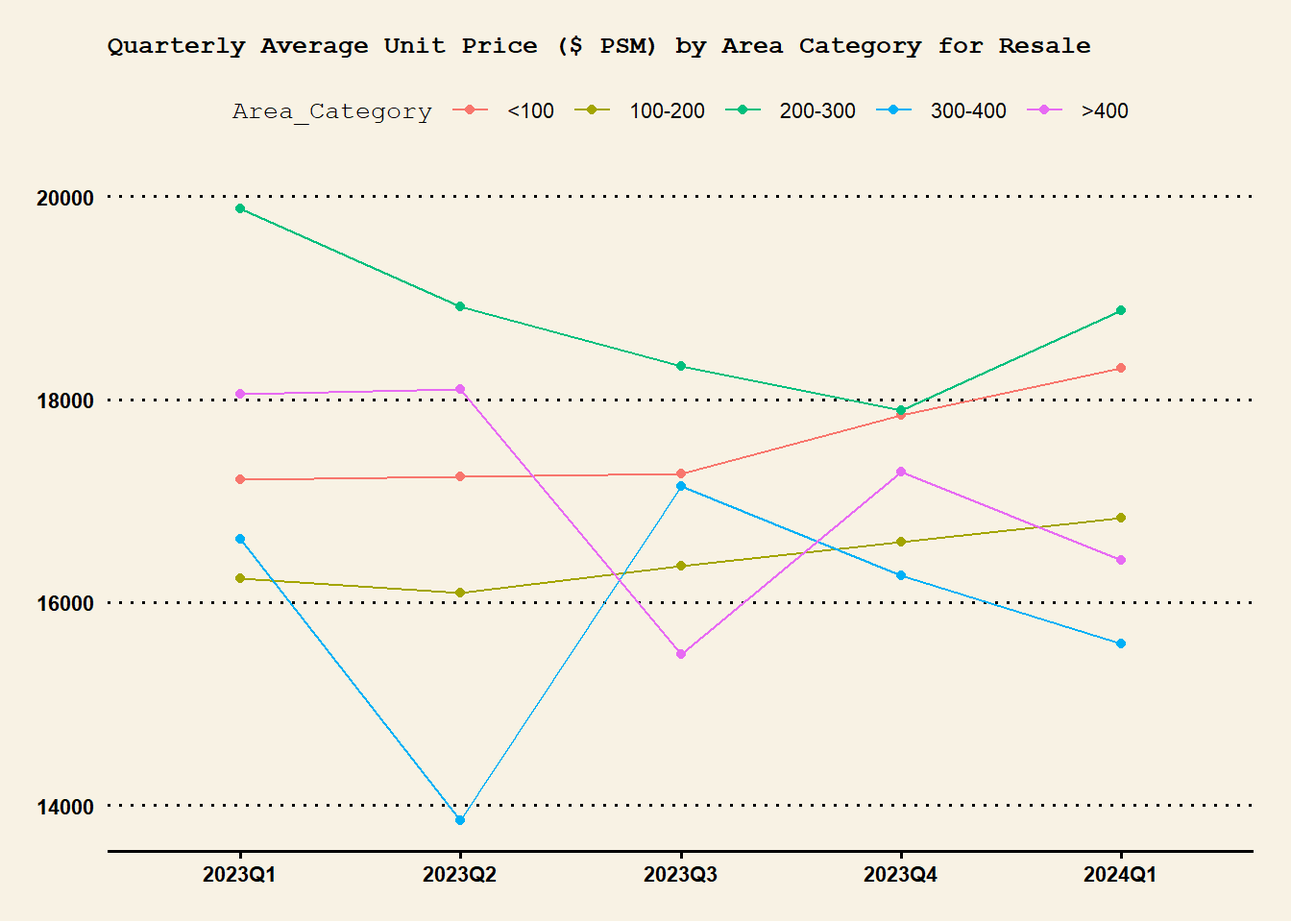
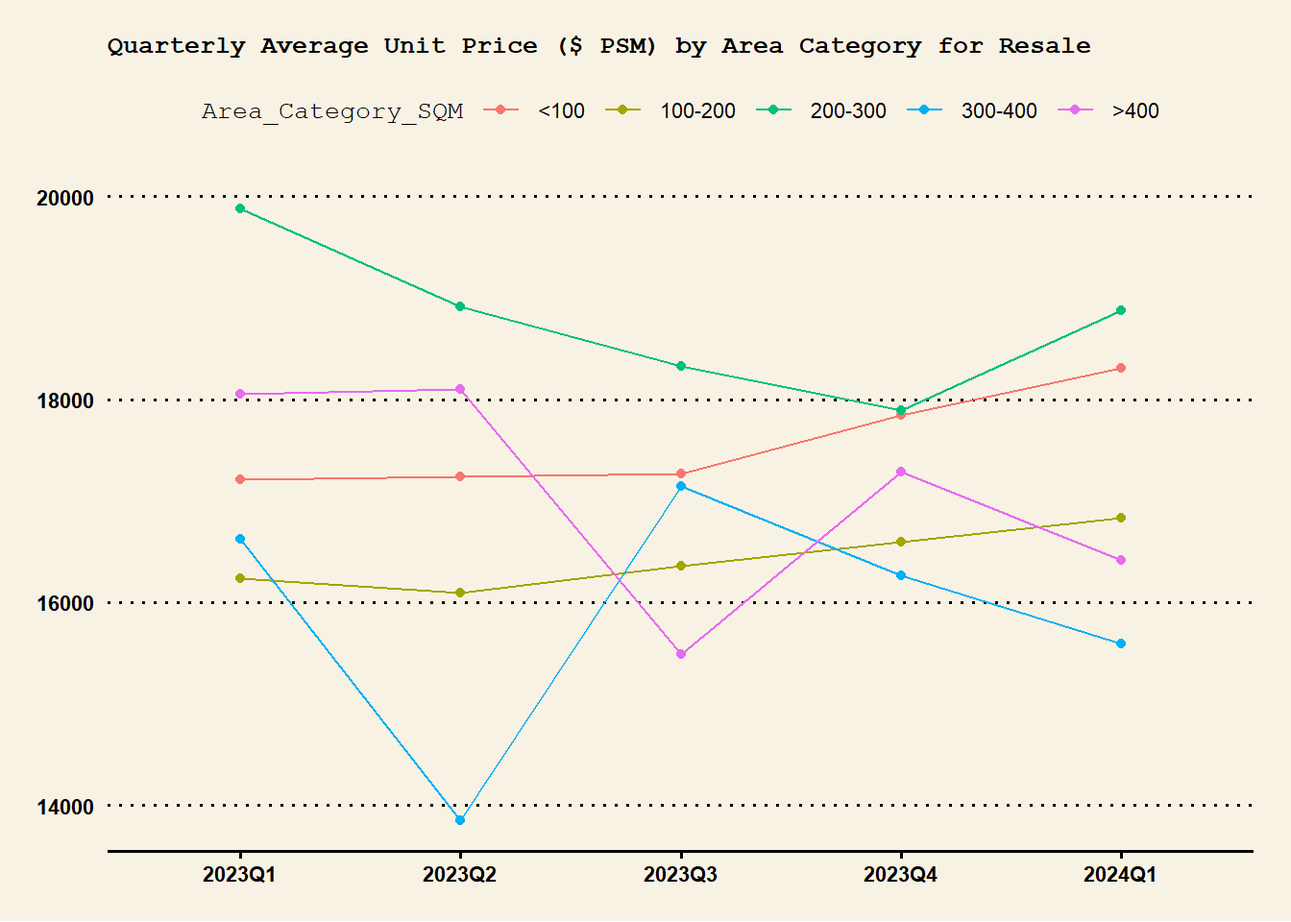
Commit after editing Take Home Ex02

Changed region(s): [[0.1562, 0.0938, 0.9062, 0.125]]

diff --git a/_site/Take-home_Ex/Take-home_Ex02/Take-home_Ex02.html b/_site/Take-home_Ex/Take-home_Ex02/Take-home_Ex02.html
@@ -7,7 +7,7 @@
 <meta name="viewport" content="width=device-width, initial-scale=1.0, user-scalable=yes">
 
 <meta name="author" content="Thet Myat Noe">
-<meta name="dcterms.date" content="2024-04-16">
+<meta name="dcterms.date" content="2024-05-02">
 
 <title>ISSS608-VAA - Take-home Exercise 2</title>
 <style>
@@ -228,7 +228,7 @@ pre > code.sourceCode > span > a:first-child::before { text-decoration: underlin
   <ul class="collapse">
   <li><a href="#combining-all-quarter-data-into-one-file" id="toc-combining-all-quarter-data-into-one-file" class="nav-link" data-scroll-target="#combining-all-quarter-data-into-one-file">2.3.1 Combining all quarter data into one file</a></li>
   <li><a href="#checking-for-duplicates" id="toc-checking-for-duplicates" class="nav-link" data-scroll-target="#checking-for-duplicates">2.3.2 Checking for duplicates</a></li>
-  <li><a href="#create-quarter-column" id="toc-create-quarter-column" class="nav-link" data-scroll-target="#create-quarter-column">2.3.4 Create Quarter Column</a></li>
+  <li><a href="#create-quarter-and-month-column" id="toc-create-quarter-and-month-column" class="nav-link" data-scroll-target="#create-quarter-and-month-column">2.3.4 Create Quarter and Month Column</a></li>
   <li><a href="#create-area-category-column" id="toc-create-area-category-column" class="nav-link" data-scroll-target="#create-area-category-column">2.3.4 Create Area Category Column</a></li>
   </ul></li>
   </ul></li>
@@ -242,6 +242,7 @@ pre > code.sourceCode > span > a:first-child::before { text-decoration: underlin
   <li><a href="#makeover-sketch" id="toc-makeover-sketch" class="nav-link" data-scroll-target="#makeover-sketch">4.1 Makeover Sketch</a></li>
   <li><a href="#makeover-visualisation" id="toc-makeover-visualisation" class="nav-link" data-scroll-target="#makeover-visualisation">4.2 Makeover Visualisation</a></li>
   </ul></li>
+  <li><a href="#conclusion" id="toc-conclusion" class="nav-link" data-scroll-target="#conclusion">5. Conclusion</a></li>
   </ul>
 </nav>
     </div>
@@ -268,7 +269,7 @@ pre > code.sourceCode > span > a:first-child::before { text-decoration: underlin
     <div>
     <div class="quarto-title-meta-heading">Published</div>
     <div class="quarto-title-meta-contents">
-      <p class="date">April 16, 2024</p>
+      <p class="date">May 2, 2024</p>
     </div>
   </div>
   
@@ -286,6 +287,7 @@ pre > code.sourceCode > span > a:first-child::before { text-decoration: underlin
 </header>
 
 
+<p><img src="pasir-ris-8.webp" class="img-fluid"> Photo: https://www.propertyguru.com.sg/</p>
 <section id="overview" class="level1">
 <h1>1. Overview</h1>
 <section id="setting-the-scene" class="level2">
@@ -324,6 +326,10 @@ pre > code.sourceCode > span > a:first-child::before { text-decoration: underlin
 <tr class="even">
 <td><a href="https://cran.r-project.org/web/packages/hrbrthemes/index.html">hrbrthemes</a></td>
 <td>A compilation of extra ‘ggplot2’ themes, scales and utilities, including a spell check function for plot label fields and an overall emphasis on typography.</td>
+</tr>
+<tr class="odd">
+<td><a href="https://r-graph-gallery.com/38-rcolorbrewers-palettes.html">rcolorbrewer</a></td>
+<td>The RColorBrewer package offers several color palette for R.&nbsp;</td>
 </tr>
 </tbody>
 </table>
@@ -446,77 +452,22 @@ $ Planning_Area               &lt;chr&gt; "Bukit Merah", "Bedok", "Yishun", "Yis
 </div>
 </section>
 </section>
-<section id="create-quarter-column" class="level3">
-<h3 class="anchored" data-anchor-id="create-quarter-column">2.3.4 Create Quarter Column</h3>
-<p>Use <code>as.Date()</code> function to put Sale_Date column into date object, specify format to ensure <code>as.Date()</code> recognize the content accurately as date. Use <code>year()</code> and <code>quarter()</code> functions from <strong>lubridate</strong> package to extract year &amp; quarter and use <code>paste()</code> to concatenate the strings.</p>
+<section id="create-quarter-and-month-column" class="level3">
+<h3 class="anchored" data-anchor-id="create-quarter-and-month-column">2.3.4 Create Quarter and Month Column</h3>
+<p>Use <code>as.Date()</code> function to put Sale_Date column into date object, specify format to ensure <code>as.Date()</code> recognize the content accurately as date. Use <code>year()</code>, <code>quarter()</code> and <code>month()</code> functions from <strong>lubridate</strong> package to extract year, quarter &amp; month and use <code>paste()</code> to concatenate the strings.</p>
 <div class="tabset-margin-container"></div><div class="panel-tabset">
 <ul class="nav nav-tabs" role="tablist"><li class="nav-item" role="presentation"><a class="nav-link active" id="tabset-2-1-tab" data-bs-toggle="tab" data-bs-target="#tabset-2-1" role="tab" aria-controls="tabset-2-1" aria-selected="true">Code</a></li><li class="nav-item" role="presentation"><a class="nav-link" id="tabset-2-2-tab" data-bs-toggle="tab" data-bs-target="#tabset-2-2" role="tab" aria-controls="tabset-2-2" aria-selected="false">Data Glimpse</a></li></ul>
 <div class="tab-content">
 <div id="tabset-2-1" class="tab-pane active" role="tabpanel" aria-labelledby="tabset-2-1-tab">
 <div class="cell">
 <div class="sourceCode cell-code" id="cb11"><pre class="sourceCode r code-with-copy"><code class="sourceCode r"><span id="cb11-1"><a href="#cb11-1" aria-hidden="true" tabindex="-1"></a>realis_merge<span class="sc">$</span>Sale_Date <span class="ot">&lt;-</span> <span class="fu">as.Date</span>(realis_merge<span class="sc">$</span>Sale_Date, <span class="at">format =</span> <span class="st">"%d %b %Y"</span>)</span>
-<span id="cb11-2"><a href="#cb11-2" aria-hidden="true" tabindex="-1"></a>realis_merge<span class="sc">$</span>Quarter <span class="ot">&lt;-</span> <span class="fu">paste</span>(<span class="fu">year</span>(realis_merge<span class="sc">$</span>Sale_Date), <span class="st">"Q"</span>, <span class="fu">quarter</span>(realis_merge<span class="sc">$</span>Sale_Date), <span class="at">sep=</span><span class="st">""</span>)</span></code><button title="Copy to Clipboard" class="code-copy-button"><i class="bi"></i></button></pre></div>
+<span id="cb11-2"><a href="#cb11-2" aria-hidden="true" tabindex="-1"></a>realis_merge<span class="sc">$</span>Quarter <span class="ot">&lt;-</span> <span class="fu">paste</span>(<span class="fu">year</span>(realis_merge<span class="sc">$</span>Sale_Date), <span class="st">"Q"</span>, <span class="fu">quarter</span>(realis_merge<span class="sc">$</span>Sale_Date), <span class="at">sep=</span><span class="st">""</span>)</span>
+<span id="cb11-3"><a href="#cb11-3" aria-hidden="true" tabindex="-1"></a>realis_merge<span class="sc">$</span>Month <span class="ot">&lt;-</span> <span class="fu">month</span>(realis_merge<span class="sc">$</span>Sale_Date, <span class="at">label =</span> <span class="cn">TRUE</span>)</span></code><button title="Copy to Clipboard" class="code-copy-button"><i class="bi"></i></button></pre></div>
 </div>
 </div>
 <div id="tabset-2-2" class="tab-pane" role="tabpanel" aria-labelledby="tabset-2-2-tab">
 <div class="cell">
 <div class="sourceCode cell-code" id="cb12"><pre class="sourceCode r code-with-copy"><code class="sourceCode r"><span id="cb12-1"><a href="#cb12-1" aria-hidden="true" tabindex="-1"></a><span class="fu">glimpse</span>(realis_merge)</span></code><button title="Copy to Clipboard" class="code-copy-button"><i class="bi"></i></button></pre></div>
-<div class="cell-output cell-output-stdout">
-<pre><code>Rows: 26,806
-Columns: 22
-$ Project_Name                &lt;chr&gt; "THE REEF AT KING'S DOCK", "URBAN TREASURE…
-$ `Transacted_Price_($)`      &lt;dbl&gt; 2317000, 1823500, 1421112, 1258112, 128000…
-$ `Area_(SQFT)`               &lt;dbl&gt; 882.65, 882.65, 1076.40, 1033.34, 871.88, …
-$ `Unit_Price_($_PSF)`        &lt;dbl&gt; 2625, 2066, 1320, 1218, 1468, 1767, 1095, …
-$ Sale_Date                   &lt;date&gt; 2023-01-01, 2023-01-02, 2023-01-02, 2023-…
-$ Address                     &lt;chr&gt; "12 HARBOURFRONT AVENUE #05-32", "205 JALA…
-$ Type_of_Sale                &lt;chr&gt; "New Sale", "New Sale", "New Sale", "New S…
-$ Type_of_Area                &lt;chr&gt; "Strata", "Strata", "Strata", "Strata", "S…
-$ `Area_(SQM)`                &lt;dbl&gt; 82.0, 82.0, 100.0, 96.0, 81.0, 308.7, 420.…
-$ `Unit_Price_($_PSM)`        &lt;dbl&gt; 28256, 22238, 14211, 13105, 15802, 19015, …
-$ `Nett_Price($)`             &lt;chr&gt; "-", "-", "-", "-", "-", "-", "-", "-", "-…
-$ Property_Type               &lt;chr&gt; "Condominium", "Condominium", "Executive C…
-$ Number_of_Units             &lt;dbl&gt; 1, 1, 1, 1, 1, 1, 1, 1, 1, 1, 1, 1, 1, 1, …
-$ Tenure                      &lt;chr&gt; "99 yrs from 12/01/2021", "Freehold", "99 …
-$ Completion_Date             &lt;chr&gt; "Uncompleted", "Uncompleted", "Uncompleted…
-$ Purchaser_Address_Indicator &lt;chr&gt; "HDB", "Private", "HDB", "HDB", "HDB", "Pr…
-$ Postal_Code                 &lt;chr&gt; "097996", "419535", "269343", "269294", "7…
-$ Postal_District             &lt;chr&gt; "04", "14", "27", "27", "28", "19", "10", …
-$ Postal_Sector               &lt;chr&gt; "09", "41", "26", "26", "79", "54", "27", …
-$ Planning_Region             &lt;chr&gt; "Central Region", "East Region", "North Re…
-$ Planning_Area               &lt;chr&gt; "Bukit Merah", "Bedok", "Yishun", "Yishun"…
-$ Quarter                     &lt;chr&gt; "2023Q1", "2023Q1", "2023Q1", "2023Q1", "2…</code></pre>
-</div>
-</div>
-</div>
-</div>
-</div>
-</section>
-<section id="create-area-category-column" class="level3">
-<h3 class="anchored" data-anchor-id="create-area-category-column">2.3.4 Create Area Category Column</h3>
-<div class="tabset-margin-container"></div><div class="panel-tabset">
-<ul class="nav nav-tabs" role="tablist"><li class="nav-item" role="presentation"><a class="nav-link active" id="tabset-3-1-tab" data-bs-toggle="tab" data-bs-target="#tabset-3-1" role="tab" aria-controls="tabset-3-1" aria-selected="true">Code</a></li><li class="nav-item" role="presentation"><a class="nav-link" id="tabset-3-2-tab" data-bs-toggle="tab" data-bs-target="#tabset-3-2" role="tab" aria-controls="tabset-3-2" aria-selected="false">Data Glimpse</a></li></ul>
-<div class="tab-content">
-<div id="tabset-3-1" class="tab-pane active" role="tabpanel" aria-labelledby="tabset-3-1-tab">
-<div class="cell">
-<div class="sourceCode cell-code" id="cb14"><pre class="sourceCode r code-with-copy"><code class="sourceCode r"><span id="cb14-1"><a href="#cb14-1" aria-hidden="true" tabindex="-1"></a>realis_merge <span class="ot">&lt;-</span> realis_merge <span class="sc">%&gt;%</span></span>
-<span id="cb14-2"><a href="#cb14-2" aria-hidden="true" tabindex="-1"></a>  <span class="fu">mutate</span>(</span>
-<span id="cb14-3"><a href="#cb14-3" aria-hidden="true" tabindex="-1"></a>    <span class="st">`</span><span class="at">Area_(SQM)</span><span class="st">`</span> <span class="ot">=</span> <span class="fu">ifelse</span>(<span class="fu">is.na</span>(<span class="st">`</span><span class="at">Area_(SQM)</span><span class="st">`</span>), <span class="dv">0</span>, <span class="st">`</span><span class="at">Area_(SQM)</span><span class="st">`</span>)  <span class="co"># Dealing with NA values</span></span>
-<span id="cb14-4"><a href="#cb14-4" aria-hidden="true" tabindex="-1"></a>  )</span>
-<span id="cb14-5"><a href="#cb14-5" aria-hidden="true" tabindex="-1"></a>realis_merge <span class="ot">&lt;-</span> realis_merge <span class="sc">%&gt;%</span></span>
-<span id="cb14-6"><a href="#cb14-6" aria-hidden="true" tabindex="-1"></a>  <span class="fu">mutate</span>(</span>
-<span id="cb14-7"><a href="#cb14-7" aria-hidden="true" tabindex="-1"></a>    <span class="at">Area_Category =</span> <span class="fu">cut</span>(</span>
-<span id="cb14-8"><a href="#cb14-8" aria-hidden="true" tabindex="-1"></a>      <span class="st">`</span><span class="at">Area_(SQM)</span><span class="st">`</span>,</span>
-<span id="cb14-9"><a href="#cb14-9" aria-hidden="true" tabindex="-1"></a>      <span class="at">breaks =</span> <span class="fu">c</span>(<span class="dv">0</span>, <span class="dv">100</span>, <span class="dv">200</span>, <span class="dv">300</span>, <span class="dv">400</span>, <span class="cn">Inf</span>),  </span>
-<span id="cb14-10"><a href="#cb14-10" aria-hidden="true" tabindex="-1"></a>      <span class="at">labels =</span> <span class="fu">c</span>(<span class="st">"&lt;100"</span>, <span class="st">"100-200"</span>, <span class="st">"200-300"</span>, <span class="st">"300-400"</span>, <span class="st">"&gt;400"</span>),</span>
-<span id="cb14-11"><a href="#cb14-11" aria-hidden="true" tabindex="-1"></a>      <span class="at">include.lowest =</span> <span class="cn">TRUE</span>  </span>
-<span id="cb14-12"><a href="#cb14-12" aria-hidden="true" tabindex="-1"></a>    )</span>
-<span id="cb14-13"><a href="#cb14-13" aria-hidden="true" tabindex="-1"></a>  )</span></code><button title="Copy to Clipboard" class="code-copy-button"><i class="bi"></i></button></pre></div>
-</div>
-</div>
-<div id="tabset-3-2" class="tab-pane" role="tabpanel" aria-labelledby="tabset-3-2-tab">
-<div class="cell">
-<div class="sourceCode cell-code" id="cb15"><pre class="sourceCode r code-with-copy"><code class="sourceCode r"><span id="cb15-1"><a href="#cb15-1" aria-hidden="true" tabindex="-1"></a><span class="fu">glimpse</span>(realis_merge)</span></code><button title="Copy to Clipboard" class="code-copy-button"><i class="bi"></i></button></pre></div>
 <div class="cell-output cell-output-stdout">
 <pre><code>Rows: 26,806
 Columns: 23
@@ -542,7 +493,66 @@ $ Postal_Sector               &lt;chr&gt; "09", "41", "26", "26", "79", "54", "2
 $ Planning_Region             &lt;chr&gt; "Central Region", "East Region", "North Re…
 $ Planning_Area               &lt;chr&gt; "Bukit Merah", "Bedok", "Yishun", "Yishun"…
 $ Quarter                     &lt;chr&gt; "2023Q1", "2023Q1", "2023Q1", "2023Q1", "2…
-$ Area_Category               &lt;fct&gt; &lt;100, &lt;100, &lt;100, &lt;100, &lt;100, 300-400, &gt;40…</code></pre>
+$ Month                       &lt;ord&gt; Jan, Jan, Jan, Jan, Jan, Jan, Jan, Jan, Ja…</code></pre>
+</div>
+</div>
+</div>
+</div>
+</div>
+</section>
+<section id="create-area-category-column" class="level3">
+<h3 class="anchored" data-anchor-id="create-area-category-column">2.3.4 Create Area Category Column</h3>
+<p>Use <code>mutate()</code>, <code>ifelse()</code> and <code>is.na()</code> to replace NA (missing values) with 0. Next, use <code>mutate()</code> and <code>cut()</code> functions to create area Catergory column (“&lt;100”, “100-200”, “200-300”, “300-400”, “&gt;400”).</p>
+<div class="tabset-margin-container"></div><div class="panel-tabset">
+<ul class="nav nav-tabs" role="tablist"><li class="nav-item" role="presentation"><a class="nav-link active" id="tabset-3-1-tab" data-bs-toggle="tab" data-bs-target="#tabset-3-1" role="tab" aria-controls="tabset-3-1" aria-selected="true">Code</a></li><li class="nav-item" role="presentation"><a class="nav-link" id="tabset-3-2-tab" data-bs-toggle="tab" data-bs-target="#tabset-3-2" role="tab" aria-controls="tabset-3-2" aria-selected="false">Data Glimpse</a></li></ul>
+<div class="tab-content">
+<div id="tabset-3-1" class="tab-pane active" role="tabpanel" aria-labelledby="tabset-3-1-tab">
+<div class="cell">
+<div class="sourceCode cell-code" id="cb14"><pre class="sourceCode r code-with-copy"><code class="sourceCode r"><span id="cb14-1"><a href="#cb14-1" aria-hidden="true" tabindex="-1"></a>realis_merge <span class="ot">&lt;-</span> realis_merge <span class="sc">%&gt;%</span></span>
+<span id="cb14-2"><a href="#cb14-2" aria-hidden="true" tabindex="-1"></a>  <span class="fu">mutate</span>(</span>
+<span id="cb14-3"><a href="#cb14-3" aria-hidden="true" tabindex="-1"></a>    <span class="st">`</span><span class="at">Area_(SQM)</span><span class="st">`</span> <span class="ot">=</span> <span class="fu">ifelse</span>(<span class="fu">is.na</span>(<span class="st">`</span><span class="at">Area_(SQM)</span><span class="st">`</span>), <span class="dv">0</span>, <span class="st">`</span><span class="at">Area_(SQM)</span><span class="st">`</span>)  <span class="co"># Dealing with NA values</span></span>
+<span id="cb14-4"><a href="#cb14-4" aria-hidden="true" tabindex="-1"></a>  )</span>
+<span id="cb14-5"><a href="#cb14-5" aria-hidden="true" tabindex="-1"></a>realis_merge <span class="ot">&lt;-</span> realis_merge <span class="sc">%&gt;%</span></span>
+<span id="cb14-6"><a href="#cb14-6" aria-hidden="true" tabindex="-1"></a>  <span class="fu">mutate</span>(</span>
+<span id="cb14-7"><a href="#cb14-7" aria-hidden="true" tabindex="-1"></a>    <span class="at">Area_Category_SQM =</span> <span class="fu">cut</span>(</span>
+<span id="cb14-8"><a href="#cb14-8" aria-hidden="true" tabindex="-1"></a>      <span class="st">`</span><span class="at">Area_(SQM)</span><span class="st">`</span>,</span>
+<span id="cb14-9"><a href="#cb14-9" aria-hidden="true" tabindex="-1"></a>      <span class="at">breaks =</span> <span class="fu">c</span>(<span class="dv">0</span>, <span class="dv">100</span>, <span class="dv">200</span>, <span class="dv">300</span>, <span class="dv">400</span>, <span class="cn">Inf</span>),  </span>
+<span id="cb14-10"><a href="#cb14-10" aria-hidden="true" tabindex="-1"></a>      <span class="at">labels =</span> <span class="fu">c</span>(<span class="st">"&lt;100"</span>, <span class="st">"100-200"</span>, <span class="st">"200-300"</span>, <span class="st">"300-400"</span>, <span class="st">"&gt;400"</span>),</span>
+<span id="cb14-11"><a href="#cb14-11" aria-hidden="true" tabindex="-1"></a>      <span class="at">include.lowest =</span> <span class="cn">TRUE</span>  </span>
+<span id="cb14-12"><a href="#cb14-12" aria-hidden="true" tabindex="-1"></a>    )</span>
+<span id="cb14-13"><a href="#cb14-13" aria-hidden="true" tabindex="-1"></a>  )</span></code><button title="Copy to Clipboard" class="code-copy-button"><i class="bi"></i></button></pre></div>
+</div>
+</div>
+<div id="tabset-3-2" class="tab-pane" role="tabpanel" aria-labelledby="tabset-3-2-tab">
+<div class="cell">
+<div class="sourceCode cell-code" id="cb15"><pre class="sourceCode r code-with-copy"><code class="sourceCode r"><span id="cb15-1"><a href="#cb15-1" aria-hidden="true" tabindex="-1"></a><span class="fu">glimpse</span>(realis_merge)</span></code><button title="Copy to Clipboard" class="code-copy-button"><i class="bi"></i></button></pre></div>
+<div class="cell-output cell-output-stdout">
+<pre><code>Rows: 26,806
+Columns: 24
+$ Project_Name                &lt;chr&gt; "THE REEF AT KING'S DOCK", "URBAN TREASURE…
+$ `Transacted_Price_($)`      &lt;dbl&gt; 2317000, 1823500, 1421112, 1258112, 128000…
+$ `Area_(SQFT)`               &lt;dbl&gt; 882.65, 882.65, 1076.40, 1033.34, 871.88, …
+$ `Unit_Price_($_PSF)`        &lt;dbl&gt; 2625, 2066, 1320, 1218, 1468, 1767, 1095, …
+$ Sale_Date                   &lt;date&gt; 2023-01-01, 2023-01-02, 2023-01-02, 2023-…
+$ Address                     &lt;chr&gt; "12 HARBOURFRONT AVENUE #05-32", "205 JALA…
+$ Type_of_Sale                &lt;chr&gt; "New Sale", "New Sale", "New Sale", "New S…
+$ Type_of_Area                &lt;chr&gt; "Strata", "Strata", "Strata", "Strata", "S…
+$ `Area_(SQM)`                &lt;dbl&gt; 82.0, 82.0, 100.0, 96.0, 81.0, 308.7, 420.…
+$ `Unit_Price_($_PSM)`        &lt;dbl&gt; 28256, 22238, 14211, 13105, 15802, 19015, …
+$ `Nett_Price($)`             &lt;chr&gt; "-", "-", "-", "-", "-", "-", "-", "-", "-…
+$ Property_Type               &lt;chr&gt; "Condominium", "Condominium", "Executive C…
+$ Number_of_Units             &lt;dbl&gt; 1, 1, 1, 1, 1, 1, 1, 1, 1, 1, 1, 1, 1, 1, …
+$ Tenure                      &lt;chr&gt; "99 yrs from 12/01/2021", "Freehold", "99 …
+$ Completion_Date             &lt;chr&gt; "Uncompleted", "Uncompleted", "Uncompleted…
+$ Purchaser_Address_Indicator &lt;chr&gt; "HDB", "Private", "HDB", "HDB", "HDB", "Pr…
+$ Postal_Code                 &lt;chr&gt; "097996", "419535", "269343", "269294", "7…
+$ Postal_District             &lt;chr&gt; "04", "14", "27", "27", "28", "19", "10", …
+$ Postal_Sector               &lt;chr&gt; "09", "41", "26", "26", "79", "54", "27", …
+$ Planning_Region             &lt;chr&gt; "Central Region", "East Region", "North Re…
+$ Planning_Area               &lt;chr&gt; "Bukit Merah", "Bedok", "Yishun", "Yishun"…
+$ Quarter                     &lt;chr&gt; "2023Q1", "2023Q1", "2023Q1", "2023Q1", "2…
+$ Month                       &lt;ord&gt; Jan, Jan, Jan, Jan, Jan, Jan, Jan, Jan, Ja…
+$ Area_Category_SQM           &lt;fct&gt; &lt;100, &lt;100, &lt;100, &lt;100, &lt;100, 300-400, &gt;40…</code></pre>
 </div>
 </div>
 </div>
@@ -557,11 +567,34 @@ $ Area_Category               &lt;fct&gt; &lt;100, &lt;100, &lt;100, &lt;100, &l
 <h2 class="anchored" data-anchor-id="original">3.1 Original</h2>
 <p>For Data Visualisation makeover, below <a href="https://iss608-1.netlify.app/take-home_ex/take-home_ex01/take-home%20exercise%201">submission</a> by a fellow student will be used.</p>
 <p><img src="original.png" class="img-fluid"></p>
+<div class="callout callout-style-default callout-tip callout-titled">
+<div class="callout-header d-flex align-content-center">
+<div class="callout-icon-container">
+<i class="callout-icon"></i>
+</div>
+<div class="callout-title-container flex-fill">
+Insights
+</div>
+</div>
+<div class="callout-body-container callout-body">
+<p>In the resale housing market, the quarterly average unit price per square meter (PSM) exhibits contrasting trends: smaller properties (&lt;200 SQM) are gaining value, while larger ones (≥300 SQM) show price declines, indicating a shift in consumer preferences toward more compact living spaces. The Q1 2024 box plots reveal a broad price range within each area category, especially in the largest homes, suggesting that factors like location and amenities significantly influence pricing.</p>
+</div>
+</div>
 </section>
 <section id="critique-clarity-and-aesthetics" class="level2">
 <h2 class="anchored" data-anchor-id="critique-clarity-and-aesthetics">3.2 Critique : Clarity and Aesthetics</h2>
 <p><u>Clarity</u></p>
+<ol type="1">
+<li><p>Boxplot for Jan, Feb and Mar are not on same Y axis scale which may be hard to compare the ranges.</p></li>
+<li><p>Boxplot for 3 months in 2024Q1 are labelled as 2024-01-01, 2024-02-01, 2024-03-01 which does not represent the whole month.</p></li>
+<li><p>Line charts are labelled &lt;100, 100-200, 200-300, 300-400, &gt;400 but at first glance it is not clear what these values means. The clarity could be improved by adding a legend or updating labels, for example, from &lt;100 to &lt;100 SQM.</p></li>
+</ol>
 <p><u>Aesthetics</u></p>
+<ol type="1">
+<li><p>X axis, Y axis and chart labels (such as 200-300,2024-01-01) are on smaller font size and may be hard to read.</p></li>
+<li><p>Boxplot colors help to distinguish each area category clearly. However, using too many colors on boxplot may be distracting to readers. Suggest using a color palette which does not produce too man contrasting colors.</p></li>
+<li><p>5 line charts for Quarterly Average Unit Price ($PSM) by Area Category for Resale can be plotted on same Y axis as one chart. This would give a more compact and clean look.</p></li>
+</ol>
 </section>
 </section>
 <section id="datavis-makeover" class="level1">
@@ -571,16 +604,31 @@ $ Area_Category               &lt;fct&gt; &lt;100, &lt;100, &lt;100, &lt;100, &l
 </section>
 <section id="makeover-visualisation" class="level2">
 <h2 class="anchored" data-anchor-id="makeover-visualisation">4.2 Makeover Visualisation</h2>
+<div class="tabset-margin-container"></div><div class="panel-tabset">
+<ul class="nav nav-tabs" role="tablist"><li class="nav-item" role="presentation"><a class="nav-link active" id="tabset-4-1-tab" data-bs-toggle="tab" data-bs-target="#tabset-4-1" role="tab" aria-controls="tabset-4-1" aria-selected="true">Plot</a></li><li class="nav-item" role="presentation"><a class="nav-link" id="tabset-4-2-tab" data-bs-toggle="tab" data-bs-target="#tabset-4-2" role="tab" aria-controls="tabset-4-2" aria-selected="false">Code</a></li></ul>
+<div class="tab-content">
+<div id="tabset-4-1" class="tab-pane active" role="tabpanel" aria-labelledby="tabset-4-1-tab">
+<div class="cell">
+<div class="cell-output-display">
+<div>
+<figure class="figure">
+<p><img src="Take-home_Ex02_files/figure-html/unnamed-chunk-13-1.png" class="img-fluid figure-img" width="672"></p>
+</figure>
+</div>
+</div>
+</div>
+</div>
+<div id="tabset-4-2" class="tab-pane" role="tabpanel" aria-labelledby="tabset-4-2-tab">
 <div class="cell">
 <div class="sourceCode cell-code" id="cb17"><pre class="sourceCode r code-with-copy"><code class="sourceCode r"><span id="cb17-1"><a href="#cb17-1" aria-hidden="true" tabindex="-1"></a>resale_data <span class="ot">&lt;-</span> realis_merge <span class="sc">%&gt;%</span></span>
 <span id="cb17-2"><a href="#cb17-2" aria-hidden="true" tabindex="-1"></a>  <span class="fu">filter</span>(<span class="st">`</span><span class="at">Type_of_Sale</span><span class="st">`</span> <span class="sc">==</span> <span class="st">"Resale"</span>) </span>
 <span id="cb17-3"><a href="#cb17-3" aria-hidden="true" tabindex="-1"></a></span>
 <span id="cb17-4"><a href="#cb17-4" aria-hidden="true" tabindex="-1"></a>avg_price_by_quarter_resale <span class="ot">&lt;-</span> resale_data <span class="sc">%&gt;%</span></span>
-<span id="cb17-5"><a href="#cb17-5" aria-hidden="true" tabindex="-1"></a>  <span class="fu">group_by</span>(Area_Category, Quarter) <span class="sc">%&gt;%</span></span>
+<span id="cb17-5"><a href="#cb17-5" aria-hidden="true" tabindex="-1"></a>  <span class="fu">group_by</span>(Area_Category_SQM, Quarter) <span class="sc">%&gt;%</span></span>
 <span id="cb17-6"><a href="#cb17-6" aria-hidden="true" tabindex="-1"></a>  <span class="fu">summarise</span>(<span class="at">Avg_Unit_Price_PSM =</span> <span class="fu">mean</span>(<span class="st">`</span><span class="at">Unit_Price_($_PSM)</span><span class="st">`</span>, <span class="at">na.rm =</span> <span class="cn">TRUE</span>), <span class="at">.groups =</span> <span class="st">"drop"</span>)</span>
 <span id="cb17-7"><a href="#cb17-7" aria-hidden="true" tabindex="-1"></a></span>
 <span id="cb17-8"><a href="#cb17-8" aria-hidden="true" tabindex="-1"></a>p_line_resale <span class="ot">&lt;-</span> avg_price_by_quarter_resale <span class="sc">%&gt;%</span></span>
-<span id="cb17-9"><a href="#cb17-9" aria-hidden="true" tabindex="-1"></a>  <span class="fu">ggplot</span>(<span class="fu">aes</span>(<span class="at">x =</span> Quarter, <span class="at">y =</span> Avg_Unit_Price_PSM, <span class="at">group =</span> Area_Category, <span class="at">color =</span> Area_Category)) <span class="sc">+</span></span>
+<span id="cb17-9"><a href="#cb17-9" aria-hidden="true" tabindex="-1"></a>  <span class="fu">ggplot</span>(<span class="fu">aes</span>(<span class="at">x =</span> Quarter, <span class="at">y =</span> Avg_Unit_Price_PSM, <span class="at">group =</span> Area_Category_SQM, <span class="at">color =</span> Area_Category_SQM)) <span class="sc">+</span></span>
 <span id="cb17-10"><a href="#cb17-10" aria-hidden="true" tabindex="-1"></a>  <span class="fu">geom_line</span>() <span class="sc">+</span></span>
 <span id="cb17-11"><a href="#cb17-11" aria-hidden="true" tabindex="-1"></a>  <span class="fu">geom_point</span>() <span class="sc">+</span></span>
 <span id="cb17-12"><a href="#cb17-12" aria-hidden="true" tabindex="-1"></a>  <span class="fu">labs</span>(<span class="at">title =</span> <span class="st">"Quarterly Average Unit Price ($ PSM) by Area Category for Resale"</span>,</span>
@@ -592,18 +640,56 @@ $ Area_Category               &lt;fct&gt; &lt;100, &lt;100, &lt;100, &lt;100, &l
 <span id="cb17-18"><a href="#cb17-18" aria-hidden="true" tabindex="-1"></a>        <span class="at">axis.text.y =</span> <span class="fu">element_text</span>(<span class="at">size =</span> <span class="fu">rel</span>(<span class="fl">0.7</span>)),</span>
 <span id="cb17-19"><a href="#cb17-19" aria-hidden="true" tabindex="-1"></a>        <span class="at">legend.text =</span> <span class="fu">element_text</span>(<span class="at">size =</span> <span class="fu">rel</span>(<span class="fl">0.7</span>)),</span>
 <span id="cb17-20"><a href="#cb17-20" aria-hidden="true" tabindex="-1"></a>        <span class="at">legend.title =</span> <span class="fu">element_text</span>(<span class="at">size =</span> <span class="fu">rel</span>(<span class="fl">0.4</span>)))</span>
-<span id="cb17-21"><a href="#cb17-21" aria-hidden="true" tabindex="-1"></a>p_line_resale</span></code><button title="Copy to Clipboard" class="code-copy-button"><i class="bi"></i></button></pre></div>
+<span id="cb17-21"><a href="#cb17-21" aria-hidden="true" tabindex="-1"></a></span>
+<span id="cb17-22"><a href="#cb17-22" aria-hidden="true" tabindex="-1"></a>p_line_resale</span></code><button title="Copy to Clipboard" class="code-copy-button"><i class="bi"></i></button></pre></div>
+</div>
+</div>
+</div>
+</div>
+<div class="tabset-margin-container"></div><div class="panel-tabset">
+<ul class="nav nav-tabs" role="tablist"><li class="nav-item" role="presentation"><a class="nav-link active" id="tabset-5-1-tab" data-bs-toggle="tab" data-bs-target="#tabset-5-1" role="tab" aria-controls="tabset-5-1" aria-selected="true">Plot</a></li><li class="nav-item" role="presentation"><a class="nav-link" id="tabset-5-2-tab" data-bs-toggle="tab" data-bs-target="#tabset-5-2" role="tab" aria-controls="tabset-5-2" aria-selected="false">Code</a></li></ul>
+<div class="tab-content">
+<div id="tabset-5-1" class="tab-pane active" role="tabpanel" aria-labelledby="tabset-5-1-tab">
+<div class="cell">
 <div class="cell-output-display">
 <div>
 <figure class="figure">
-<p><img src="Take-home_Ex02_files/figure-html/unnamed-chunk-13-1.png" class="img-fluid figure-img" width="672"></p>
+<p><img src="Take-home_Ex02_files/figure-html/unnamed-chunk-15-1.png" class="img-fluid figure-img" width="672"></p>
 </figure>
 </div>
 </div>
 </div>
-
-
+</div>
+<div id="tabset-5-2" class="tab-pane" role="tabpanel" aria-labelledby="tabset-5-2-tab">
+<div class="cell">
+<div class="sourceCode cell-code" id="cb18"><pre class="sourceCode r code-with-copy"><code class="sourceCode r"><span id="cb18-1"><a href="#cb18-1" aria-hidden="true" tabindex="-1"></a>data_q1_resale <span class="ot">&lt;-</span> resale_data <span class="sc">%&gt;%</span></span>
+<span id="cb18-2"><a href="#cb18-2" aria-hidden="true" tabindex="-1"></a>  <span class="fu">filter</span>(Quarter <span class="sc">==</span> <span class="st">"2024Q1"</span>) </span>
+<span id="cb18-3"><a href="#cb18-3" aria-hidden="true" tabindex="-1"></a></span>
+<span id="cb18-4"><a href="#cb18-4" aria-hidden="true" tabindex="-1"></a>p_box_resale <span class="ot">&lt;-</span> <span class="fu">ggplot</span>(data_q1_resale, <span class="fu">aes</span>(<span class="at">x =</span> Area_Category_SQM, <span class="at">y =</span> <span class="st">`</span><span class="at">Unit_Price_($_PSM)</span><span class="st">`</span>, <span class="at">fill =</span> Area_Category_SQM)) <span class="sc">+</span></span>
+<span id="cb18-5"><a href="#cb18-5" aria-hidden="true" tabindex="-1"></a>  <span class="fu">geom_boxplot</span>() <span class="sc">+</span></span>
+<span id="cb18-6"><a href="#cb18-6" aria-hidden="true" tabindex="-1"></a>  <span class="fu">geom_jitter</span>(<span class="at">width =</span> <span class="fl">0.2</span>, <span class="at">alpha =</span> <span class="fl">0.001</span>) <span class="sc">+</span>  <span class="co"># Adjusting alpha for visibility</span></span>
+<span id="cb18-7"><a href="#cb18-7" aria-hidden="true" tabindex="-1"></a>  <span class="fu">facet_wrap</span>(<span class="sc">~</span>Month, <span class="at">scales =</span> <span class="st">"fixed"</span>) <span class="sc">+</span></span>
+<span id="cb18-8"><a href="#cb18-8" aria-hidden="true" tabindex="-1"></a>  <span class="fu">labs</span>(<span class="at">title =</span> <span class="st">"Monthly Unit Price ($ PSM) by Area Category for Resale (Q1 2024)"</span>,</span>
+<span id="cb18-9"><a href="#cb18-9" aria-hidden="true" tabindex="-1"></a>       <span class="at">x =</span> <span class="st">"Area Category"</span>,</span>
+<span id="cb18-10"><a href="#cb18-10" aria-hidden="true" tabindex="-1"></a>       <span class="at">y =</span> <span class="st">"Price ($ PSM)"</span>) <span class="sc">+</span></span>
+<span id="cb18-11"><a href="#cb18-11" aria-hidden="true" tabindex="-1"></a>  <span class="fu">theme_wsj</span>() <span class="sc">+</span></span>
+<span id="cb18-12"><a href="#cb18-12" aria-hidden="true" tabindex="-1"></a>  <span class="fu">theme</span>(<span class="at">plot.title =</span> <span class="fu">element_text</span>(<span class="at">size =</span> <span class="fu">rel</span>(<span class="fl">0.4</span>)),  </span>
+<span id="cb18-13"><a href="#cb18-13" aria-hidden="true" tabindex="-1"></a>        <span class="at">axis.text.x =</span> <span class="fu">element_text</span>(<span class="at">angle =</span> <span class="dv">45</span>, <span class="at">hjust =</span> <span class="dv">1</span>, <span class="at">size =</span> <span class="fu">rel</span>(<span class="fl">0.7</span>)),  </span>
+<span id="cb18-14"><a href="#cb18-14" aria-hidden="true" tabindex="-1"></a>        <span class="at">axis.text.y =</span> <span class="fu">element_text</span>(<span class="at">size =</span> <span class="fu">rel</span>(<span class="fl">0.7</span>)),</span>
+<span id="cb18-15"><a href="#cb18-15" aria-hidden="true" tabindex="-1"></a>        <span class="at">legend.text =</span> <span class="fu">element_text</span>(<span class="at">size =</span> <span class="fu">rel</span>(<span class="fl">0.7</span>)),</span>
+<span id="cb18-16"><a href="#cb18-16" aria-hidden="true" tabindex="-1"></a>        <span class="at">legend.title =</span> <span class="fu">element_text</span>(<span class="at">size =</span> <span class="fu">rel</span>(<span class="fl">0.4</span>)))<span class="sc">+</span></span>
+<span id="cb18-17"><a href="#cb18-17" aria-hidden="true" tabindex="-1"></a>  <span class="fu">scale_fill_brewer</span>(<span class="at">palette =</span> <span class="st">"RdPu"</span>)</span>
+<span id="cb18-18"><a href="#cb18-18" aria-hidden="true" tabindex="-1"></a>p_box_resale</span></code><button title="Copy to Clipboard" class="code-copy-button"><i class="bi"></i></button></pre></div>
+</div>
+</div>
+</div>
+</div>
 </section>
+</section>
+<section id="conclusion" class="level1">
+<h1>5. Conclusion</h1>
+
+
 </section>
 
 </main> <!-- /main -->
